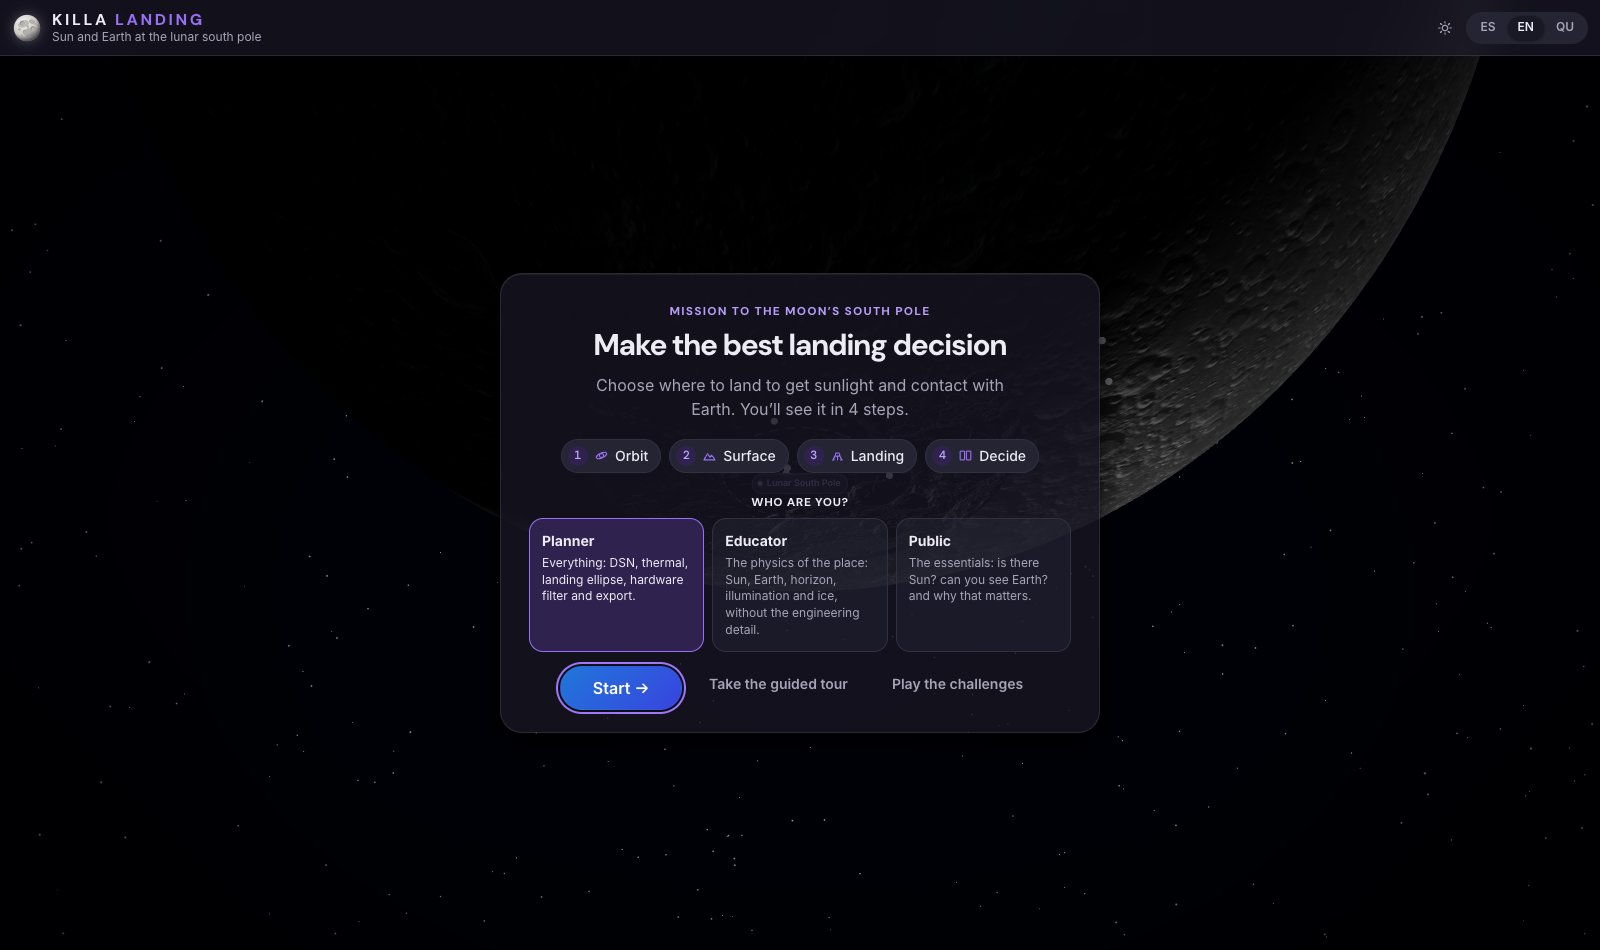
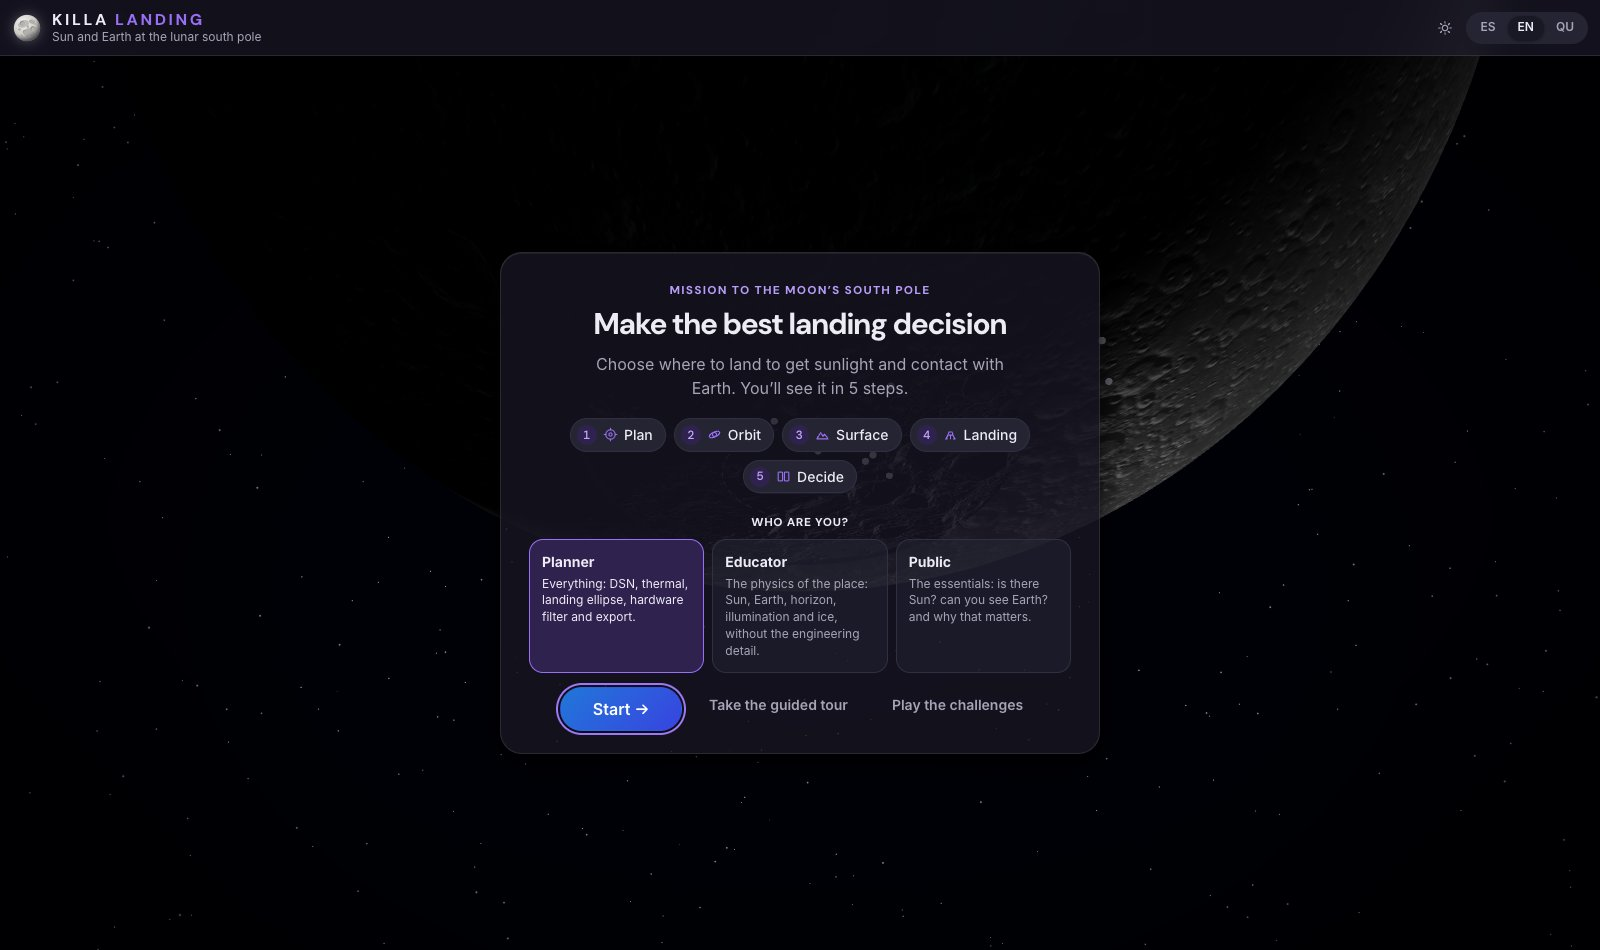
Show the real number of steps: five for planners, four for everyone else

Changed region(s): [[0.3125, 0.2442, 0.6875, 0.7937], [0.5625, 0.7021, 0.6875, 0.7937], [0.5625, 0.5495, 0.6562, 0.6716]]

diff --git a/src/ui/Welcome.tsx b/src/ui/Welcome.tsx
@@ -2,7 +2,7 @@ import { openChallenges } from '../hooks/useChallengeState.ts'
 import { type MsgKey, useT } from '../i18n/index.ts'
 import { useMissionStore } from '../store/useMissionStore.ts'
 import { AUDIENCES, chooseStage, useUiStore } from '../store/useUiStore.ts'
-import { IconCompare, IconLander, IconMountain, IconOrbit } from './icons.tsx'
+import { IconCompare, IconLander, IconMountain, IconOrbit, IconTarget } from './icons.tsx'
 import { STEPS } from './steps.ts'
 import { TopSites } from './TopSites.tsx'
 
@@ -33,10 +33,12 @@ function AudiencePicker() {
   )
 }
 
-/** First screen after the splash: the goal in one sentence and the four steps. */
+/** First screen after the splash: the goal in one sentence and the steps (planners start with "Plan"). */
 export function Welcome() {
   const t = useT()
   const setStage = useUiStore((s) => s.setStage)
+  const planner = useUiStore((s) => s.audience === 'planner')
+  const shift = planner ? 2 : 1
   const startTour = useUiStore((s) => s.startTour)
 
   return (
@@ -46,13 +48,20 @@ export function Welcome() {
         <h1 id="intro-title" className="intro__title">
           {t('welcome.title')}
         </h1>
-        <p className="intro__sub">{t('welcome.sub')}</p>
+        <p className="intro__sub">{t('welcome.sub', { n: STEPS.length + shift - 1 })}</p>
         <ol className="intro__steps">
+          {planner && (
+            <li>
+              <span className="intro__num">1</span>
+              <IconTarget />
+              <span>{t('step.plan')}</span>
+            </li>
+          )}
           {STEPS.map((step, i) => {
             const Icon = ICONS[i]
             return (
               <li key={step.id}>
-                <span className="intro__num">{i + 1}</span>
+                <span className="intro__num">{i + shift}</span>
                 <Icon />
                 <span>{t(step.title)}</span>
               </li>

diff --git a/src/i18n/en.ts b/src/i18n/en.ts
@@ -79,9 +79,9 @@ export const en: Record<keyof typeof es, string> = {
   'tour.welcome.title': 'Welcome to Killa Landing',
   'tour.welcome.body':
     'One question: if you land here on this date, will you have sunlight for power and the Earth in view to communicate?',
-  'tour.steps.title': '4 steps',
+  'tour.steps.title': 'The steps',
   'tour.steps.body':
-    'Orbit → Surface → Landing → Decide. Move on with “Go to…” or jump to any step.',
+    'Orbit → Surface → Landing → Decide; in Planner mode, Plan comes first. Move on with “Go to…” or jump to any step.',
   'tour.scene.title': 'The 3D scene',
   'tour.scene.body':
     'Drag to rotate, scroll to zoom. Click a dot to fly to that site. Try “Background: Sun / Earth”.',
@@ -788,7 +788,7 @@ export const en: Record<keyof typeof es, string> = {
   'welcome.kicker': 'Mission to the Moon’s south pole',
   'welcome.title': 'Make the best landing decision',
   'welcome.sub':
-    'Choose where to land to get sunlight and contact with Earth. You’ll see it in 4 steps.',
+    'Choose where to land to get sunlight and contact with Earth. You’ll see it in {n} steps.',
   'welcome.start': 'Start',
   'welcome.tour': 'Take the guided tour',
   'choose.kicker': 'Before you start',

diff --git a/src/i18n/es.ts b/src/i18n/es.ts
@@ -78,9 +78,9 @@ export const es = {
   'tour.welcome.title': 'Bienvenido a Killa Landing',
   'tour.welcome.body':
     'Una sola pregunta: si aterrizas aquí y en esta fecha, ¿tendrás Sol para la energía y la Tierra a la vista para comunicarte?',
-  'tour.steps.title': '4 pasos',
+  'tour.steps.title': 'Los pasos',
   'tour.steps.body':
-    'Órbita → Superficie → Aterrizaje → Decidir. Avanza con «Ir a…» o salta a cualquier paso.',
+    'Órbita → Superficie → Aterrizaje → Decidir; en modo Planificador, antes va Planificar. Avanza con «Ir a…» o salta a cualquier paso.',
   'tour.scene.title': 'La escena 3D',
   'tour.scene.body':
     'Arrastra para girar, rueda para acercar. Clic en un punto para volar a ese sitio. Usa «Fondo: Sol / Tierra».',
@@ -797,7 +797,7 @@ export const es = {
   'welcome.kicker': 'Misión al polo sur de la Luna',
   'welcome.title': 'Toma la mejor decisión de alunizaje',
   'welcome.sub':
-    'Elige dónde aterrizar para tener luz del Sol y contacto con la Tierra. Lo verás en 4 pasos.',
+    'Elige dónde aterrizar para tener luz del Sol y contacto con la Tierra. Lo verás en {n} pasos.',
   'welcome.start': 'Empezar',
   'welcome.tour': 'Ver el recorrido guiado',
   'choose.kicker': 'Paso previo',

diff --git a/src/i18n/qu/core.ts b/src/i18n/qu/core.ts
@@ -72,9 +72,9 @@ export const core: QuDict = {
   'tour.welcome.title': 'Allin hamusqayki Killa Landingman',
   'tour.welcome.body':
     "Huk tapuylla: kaypi, kay p'unchawpi uraykuspa, ¿kallpapaq Intiyuqchu kanki, rimanaykipaq Tiqsimuyuta rikunkichu?",
-  'tour.steps.title': '4 paso',
+  'tour.steps.title': 'Pasokuna',
   'tour.steps.body':
-    "Órbita → Pampa → Uraykuy → Tukuchay. Qatiq pasoman riy, utaq mayqin pasomanpas p'itay.",
+    "Órbita → Pampa → Uraykuy → Tukuchay; Wakichiq modopi ñawpaqta Wakichiy. Qatiq pasoman riy, utaq mayqin pasomanpas p'itay.",
   'tour.scene.title': '3D escena',
   'tour.scene.body':
     "Muyuchinapaq aysay, kayllachanapaq ruedata muyuchiy. Huk chiqanta ñit'iy chay k'itiman phawanapaq. Fondopaq Intita utaq Tiqsimuyuta akllay.",

diff --git a/src/i18n/qu/scene.ts b/src/i18n/qu/scene.ts
@@ -201,7 +201,7 @@ export const scene: QuDict = {
   'welcome.kicker': 'Killapa uray polonman misión',
   'welcome.title': "Aswan allin uraykuna k'itita akllay",
   'welcome.sub':
-    "Maypi uraykunaykita akllay, Intipa k'anchayninpas Tiqsimuyuwan rimaypas kananpaq. 4 pasopi qhawanki.",
+    "Maypi uraykunaykita akllay, Intipa k'anchayninpas Tiqsimuyuwan rimaypas kananpaq. {n} pasopi qhawanki.",
   'welcome.start': 'Qallariy',
   'welcome.tour': 'Pusasqa puriyta qhaway',
   'choose.kicker': 'Ñawpaq paso',
